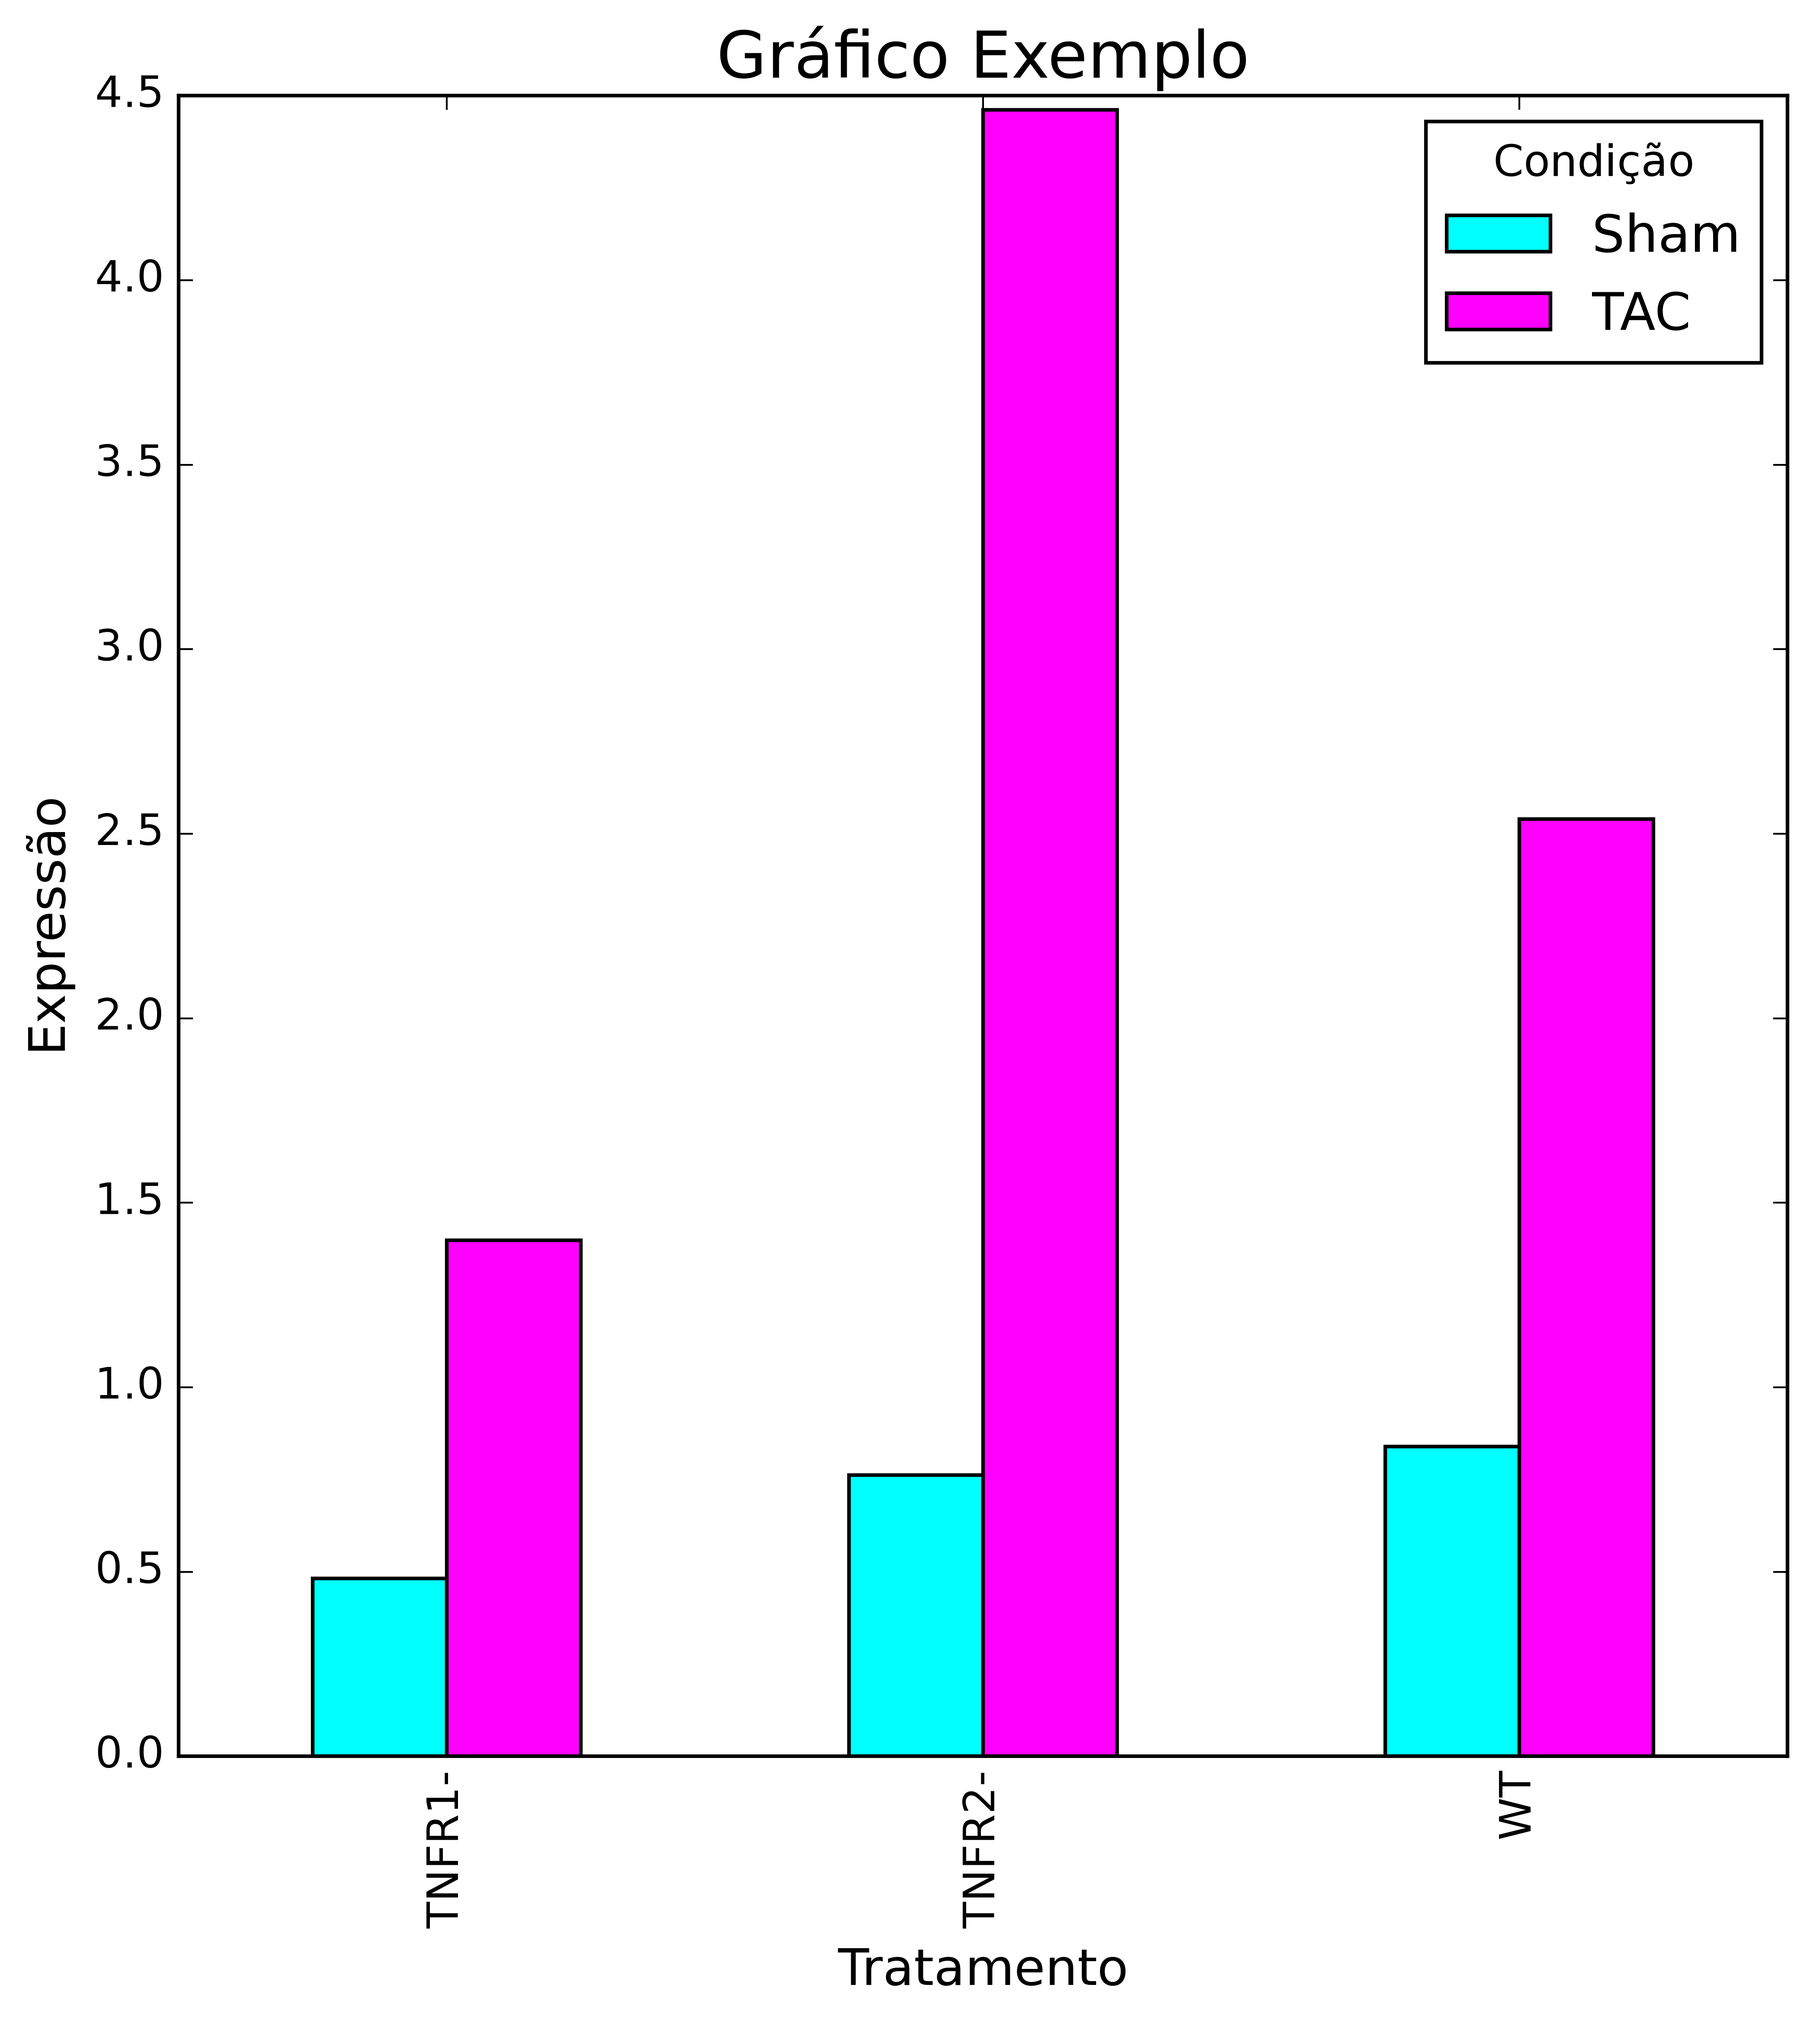
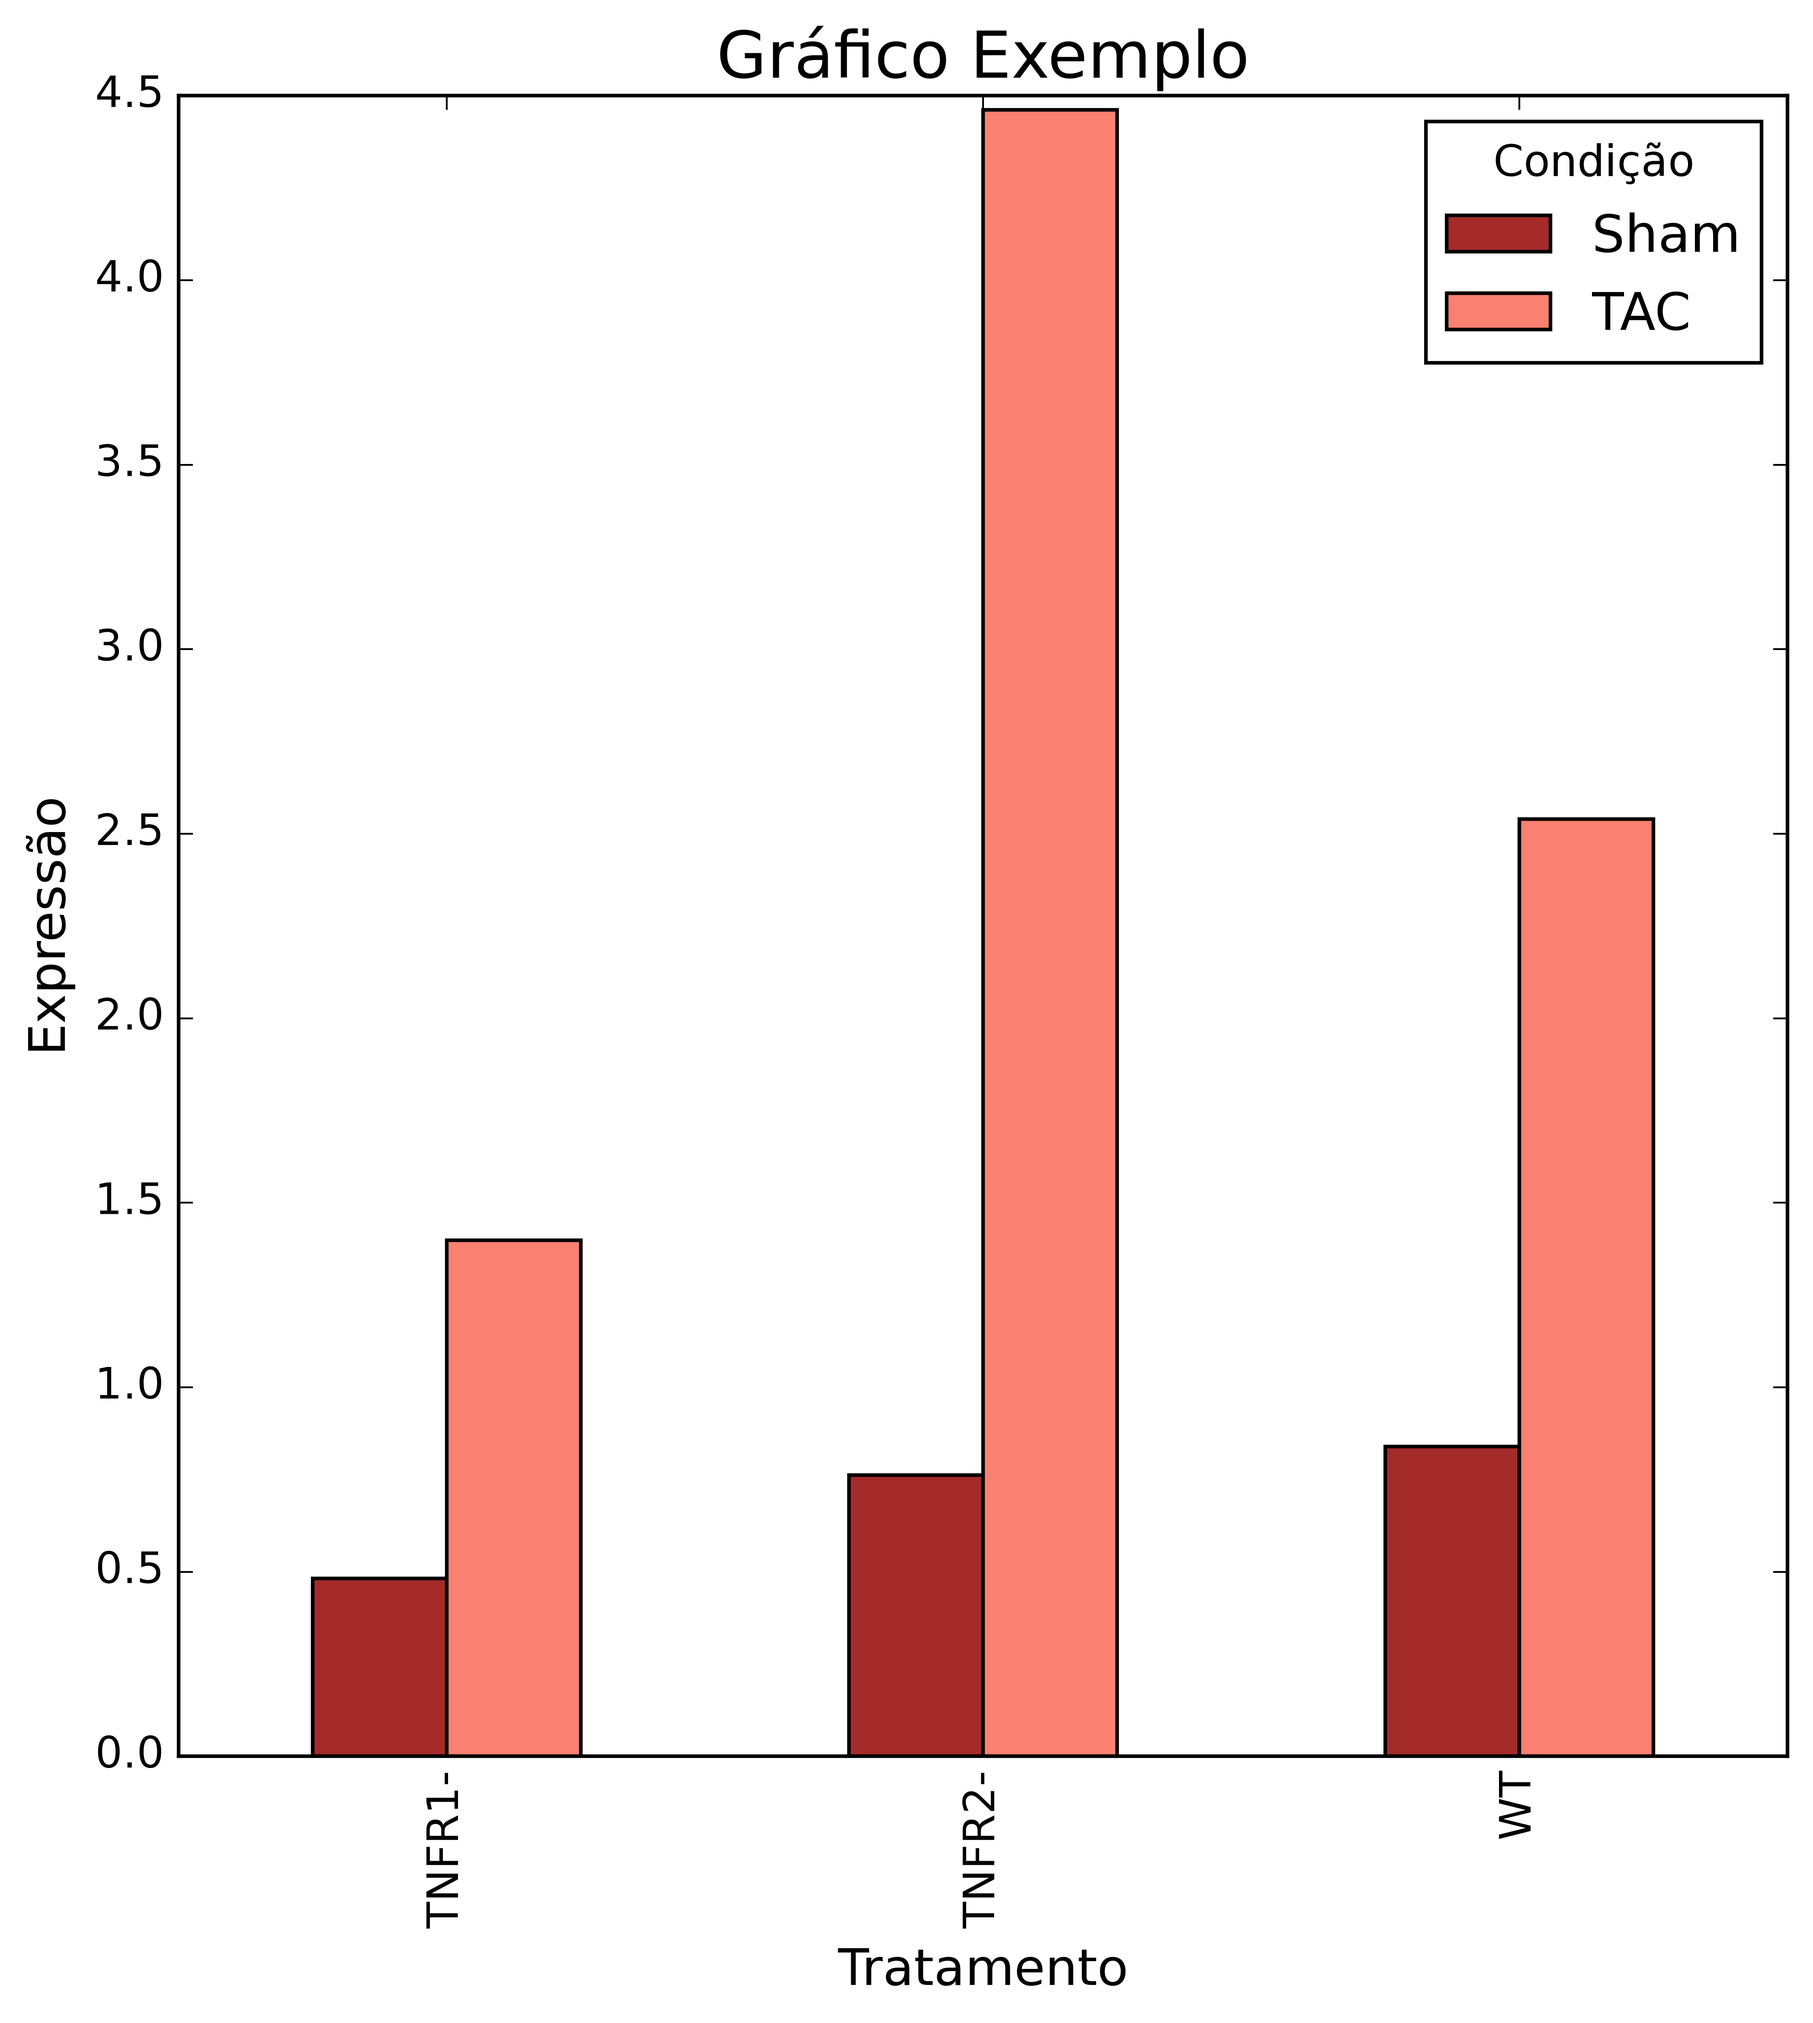
modificações nas cores 2

diff --git a/Problemas/Problema1.py b/Problemas/Problema1.py
@@ -19,7 +19,7 @@ print(tabela_medias)
 
 #Gráfico
 plt.style.use('classic')
-tabela_medias.plot(kind='bar',color=["cyan", "magenta"], edgecolor="black", linewidth=1, figsize=(8, 8))
+tabela_medias.plot(kind='bar',color=["brown", "salmon"], edgecolor="black", linewidth=1, figsize=(8, 8))
 plt.title("Gráfico Exemplo", fontsize = 18)
 plt.ylabel("Expressão", fontsize = 14)
 plt.xlabel("Tratamento", fontsize = 14)
